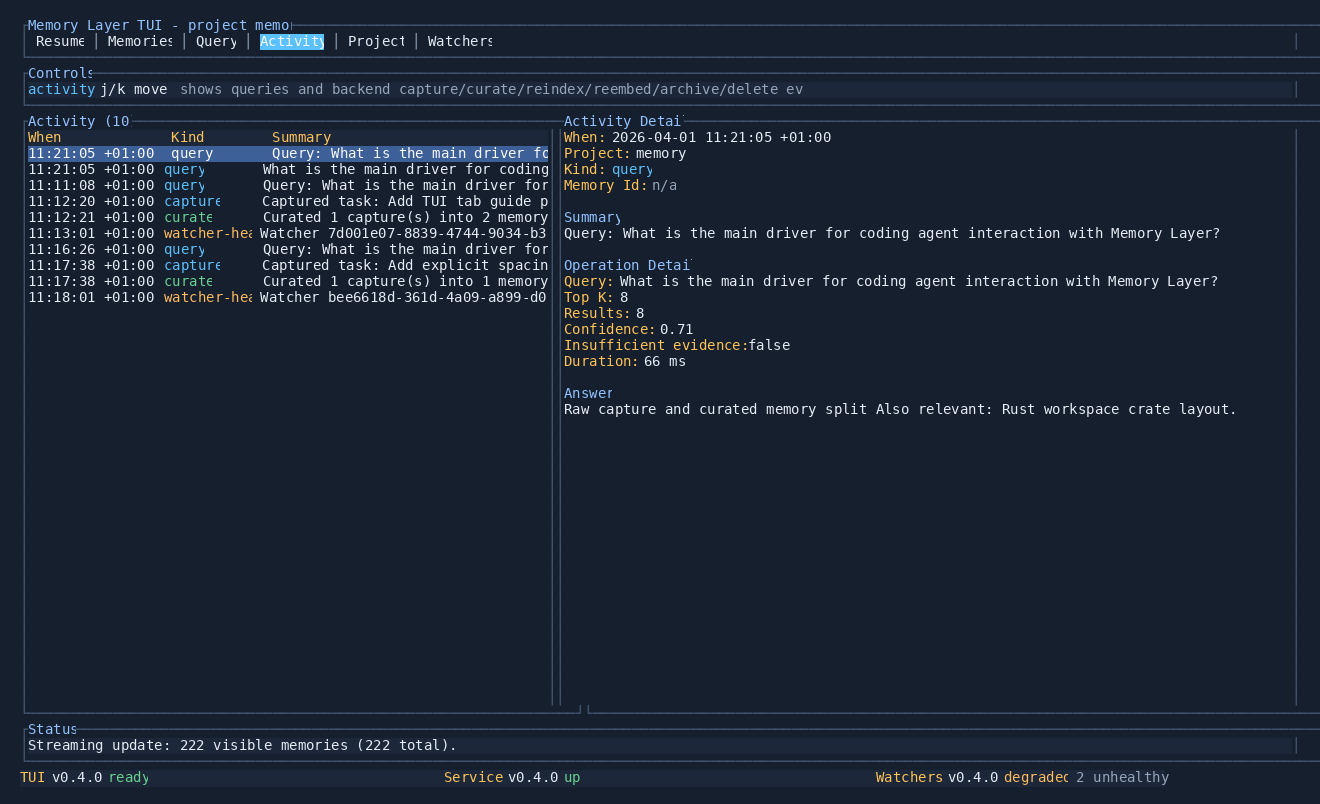
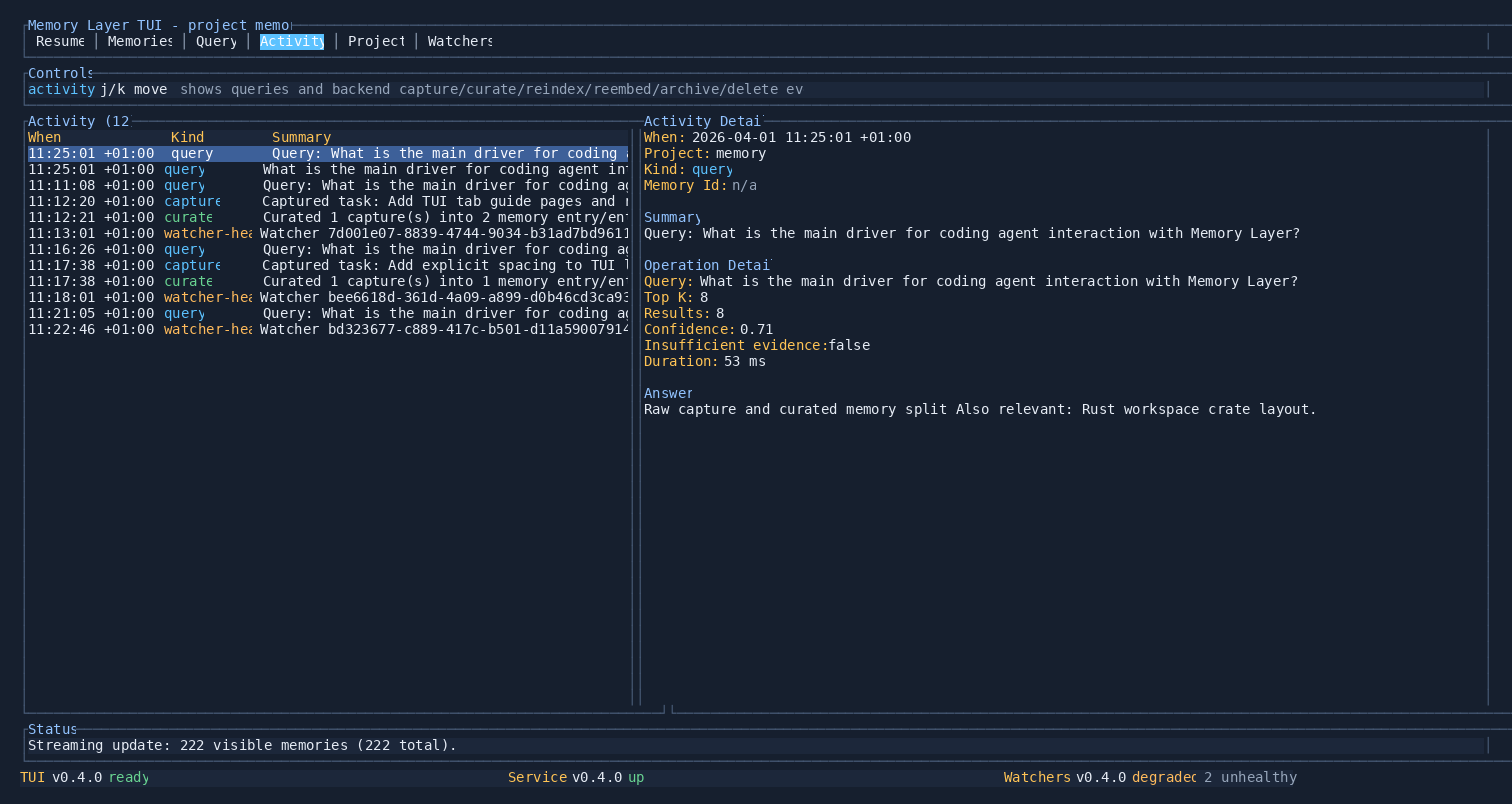
Docs: widen TUI screenshot captures

diff --git a/scripts/generate-tui-doc-screenshots.py b/scripts/generate-tui-doc-screenshots.py
@@ -19,7 +19,7 @@ TUI_BIN = os.environ.get("MEMORY_LAYER_TUI_BIN", str(ROOT / "target" / "debug" /
 WATCH_BIN = os.environ.get(
     "MEMORY_LAYER_WATCH_BIN", str(ROOT / "target" / "debug" / "memory-watch")
 )
-WIDTH = 160
+WIDTH = 184
 HEIGHT = 48
 OUTPUT_DIR = ROOT / "docs" / "img" / "tui"
 DEFAULT_FG = (230, 236, 245)
